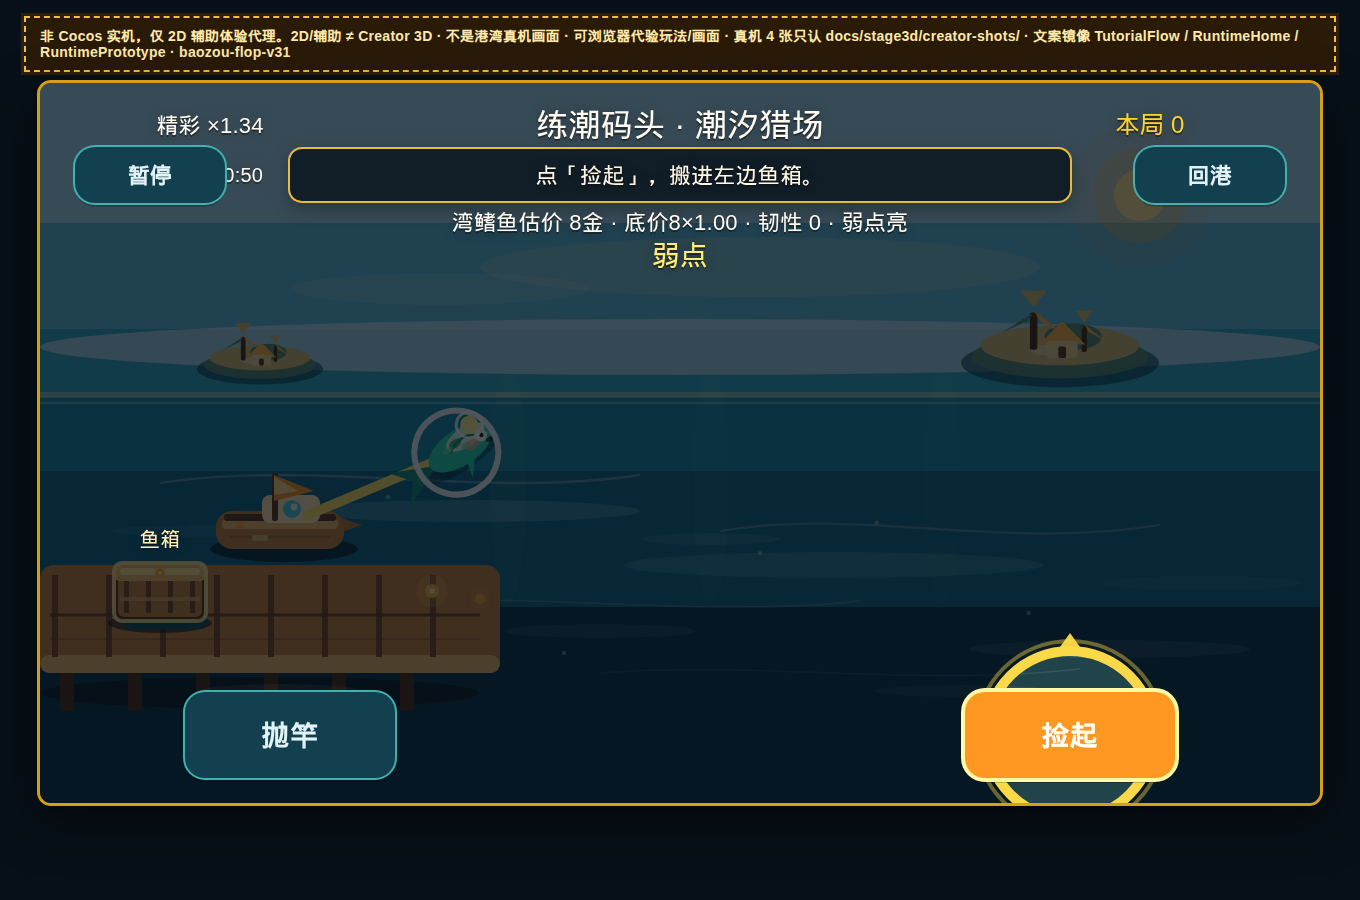
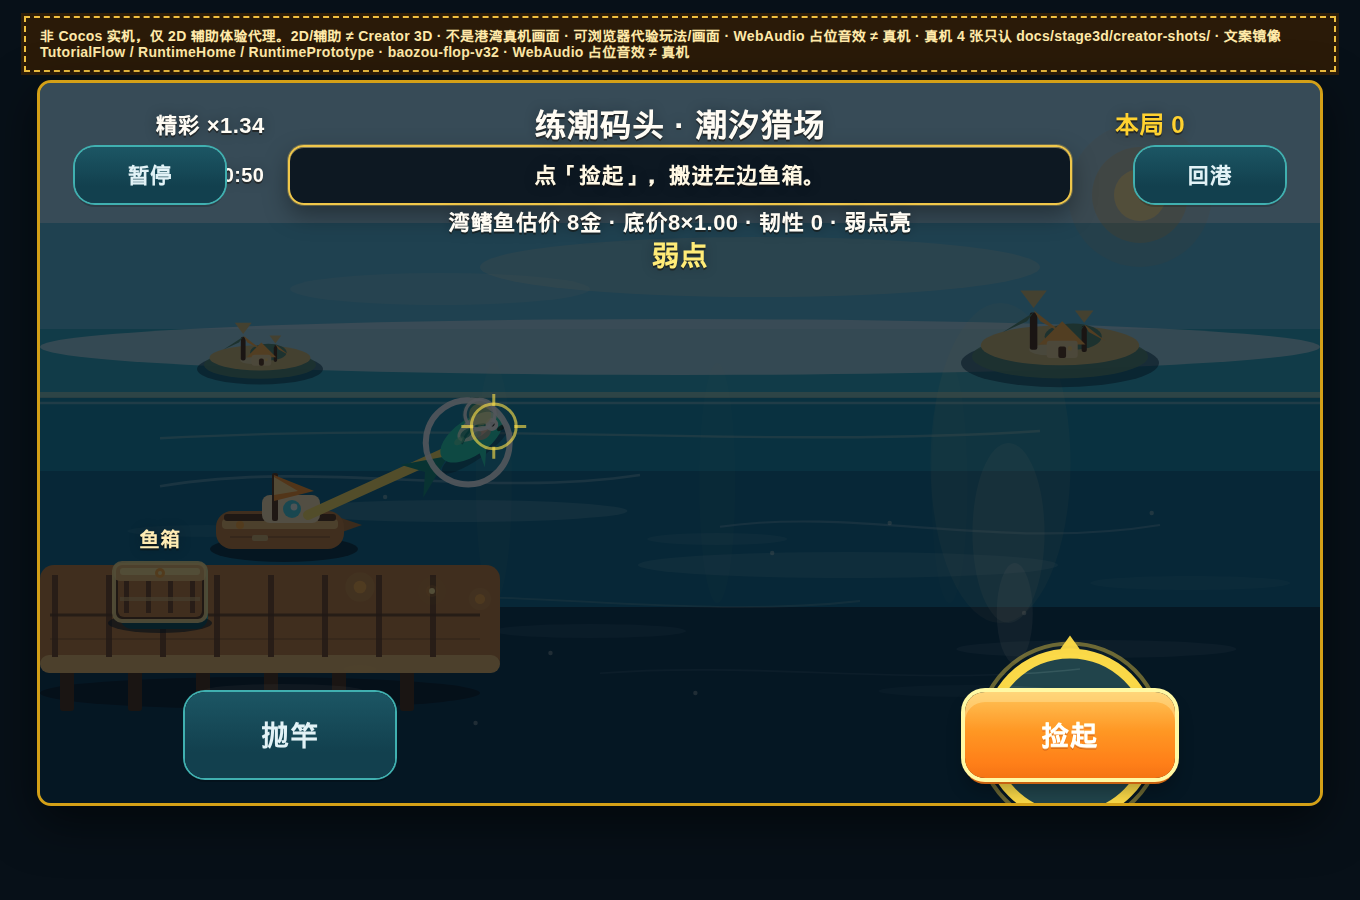
更新代理九张截图，并让卖出进度条更抢眼
validate 绿后重跑 first-run-preview playtest。入箱后底栏不再露抛竿；卖出 11/90 条下移到跳字下方。矢量 bayfin/dock/water 随配方重出。仍非 Creator 证据。

diff --git a/tools/first-run-preview/preview.js b/tools/first-run-preview/preview.js
@@ -820,7 +820,8 @@ function renderHarbor() {
     label(sellBridge, 22, 0, 86, 640, rgb(COPY.colors.cream));
   }
   if (save.tutorialComplete && save.coins > 0 && COPY.nextUpgradeCost) {
-    progressBar(0, 222, 280, save.coins / COPY.nextUpgradeCost);
+    const barY = coinJumpLeft > 0 ? 62 : 222;
+    progressBar(0, barY, 380, save.coins / COPY.nextUpgradeCost);
   }
   const phase = harborPhase();
   const showMeta = COPY.hudShowMeta?.[phase] ?? phase === "idle";
@@ -954,7 +955,9 @@ function renderSea() {
   label(COPY.tutorialIsland.clock, 20, -470, 268, 280);
   label(COPY.crateLabel, 20, COPY.crate.x, -96, 120, "#ffecb4");
   const bar = COPY.button.bar;
-  if (!carrying) {
+  if (tutorialStep === "settle") {
+    // 入箱后只圈回港，不再露抛竿/捡起抢主目标
+  } else if (!carrying) {
     cta(COPY.castButton, -390, -292, bar.width, bar.height, bar.fontSize, barTone("cast"), onCast);
     cta(COPY.pickButton, 390, -292, bar.width, bar.height, bar.fontSize, barTone("pickUp"), onPick);
   } else {

diff --git a/tools/first-run-preview/index.html b/tools/first-run-preview/index.html
@@ -100,10 +100,10 @@
       .progress {
         position: absolute;
         transform: translate(-50%, -50%);
-        height: 14px;
+        height: 16px;
         border-radius: 8px;
-        background: rgba(8, 18, 26, 0.72);
-        box-shadow: inset 0 0 0 1px rgba(255, 210, 80, 0.35);
+        background: rgba(8, 18, 26, 0.78);
+        box-shadow: inset 0 0 0 1px rgba(255, 210, 80, 0.45), 0 4px 12px rgba(0, 0, 0, 0.28);
         overflow: hidden;
         pointer-events: none;
       }
